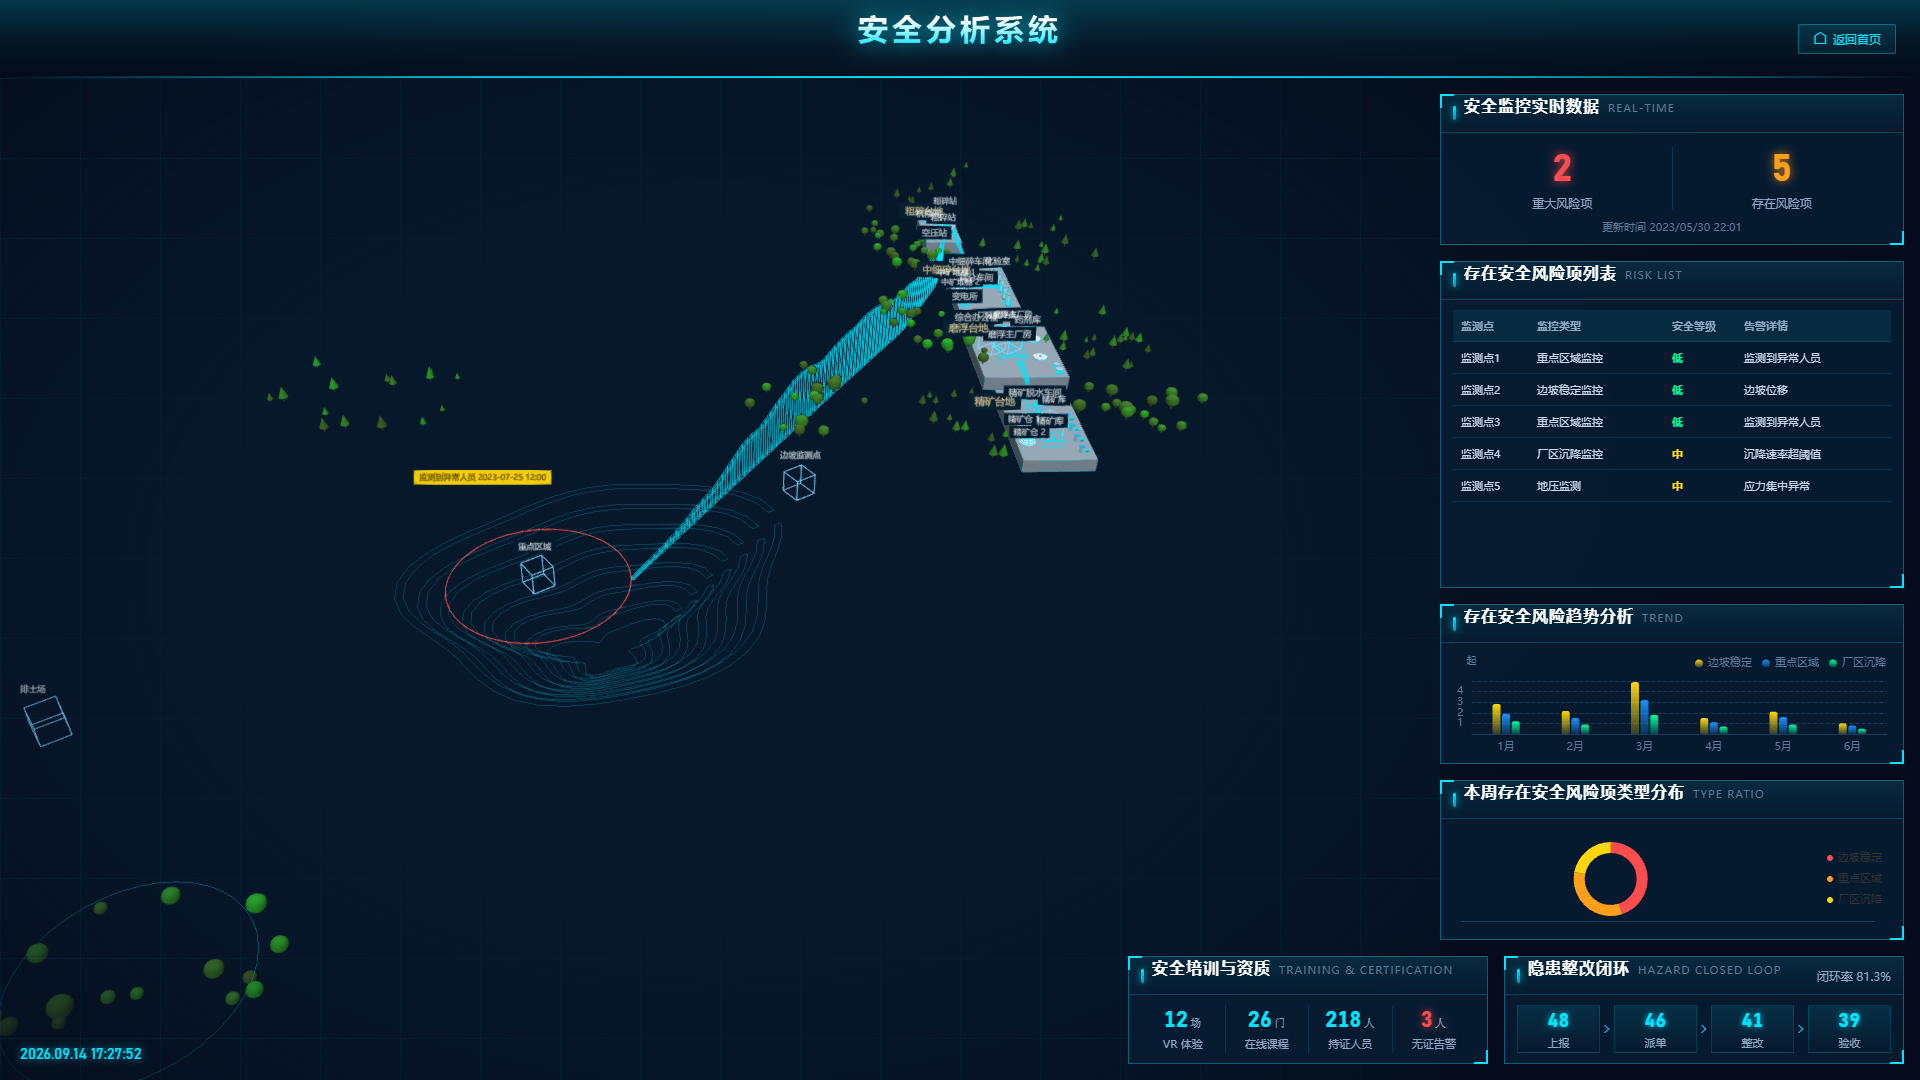
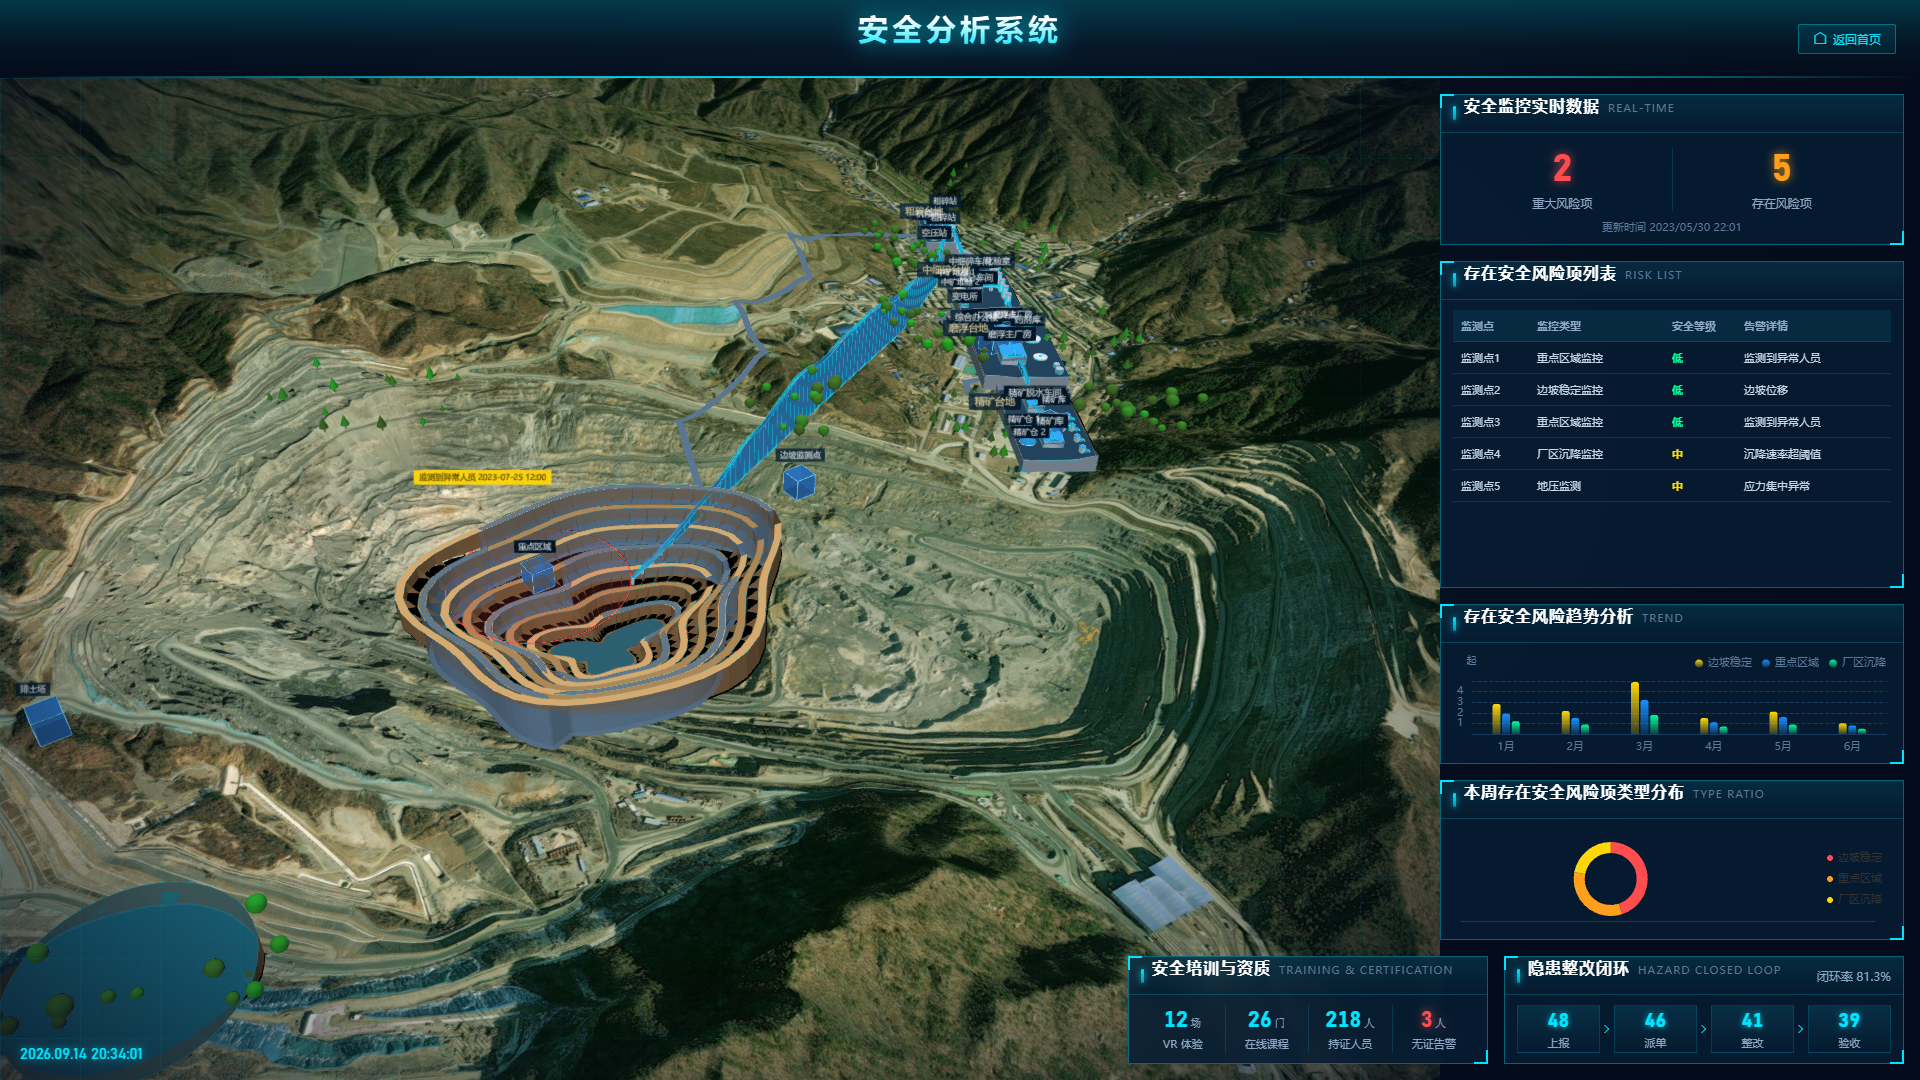
修「拉近矿厂模型后看不到底图」：一个 0 被 Cesium 当了除数（§13 第 28、29 条）
用户报「放大拉近到矿厂模型后，包括数字孪生，都看不到背景 cesium」。
根因在 localTerrain.ts 的 getLevelMaximumGeometricError：它对
level >= maxCachedLevel（14 级）返回**字面量 0**。Cesium 拿同一个数问两件事：

- 问细分：屏幕空间误差 = 0，恒小于阈值 → 渲染这一级、不下钻。「给 0」是对的。
- 问影像层级：ImageryLayer.js 把它**当除数**算
  level = round(log2(levelZeroTexel / 误差)) | 0。除以 0 得 Infinity，
  而位运算 | 0 会把 Infinity 归成 **0**（不报错、也不是大数）——
  影像层级塌到 0 级，0 级不在离线缓存里（12~17 级），requestImage 只能给
  透明占位图，整片球面于是露出 globe.baseColor(#07182b)。

实测：地形 13 级误差 4.777 → 影像 15 级（有缓存）；14 级误差 0 → 影像 0 级
（无缓存）。修前默认机位就没在渲染影像（默认机位也停在 14 级），
累计真实瓦片请求 140 张且不再增长，头号颜色 rgb(7,24,43) 占 30~35%；
修后请求 460 张，该颜色从前五名彻底消失（头色只剩 0.65%），
地面高程读数仍 1377m、帧号连续推进。

修法：把「再细分也不会有更多细节」表达成极小的正数（Number.EPSILON）
而不是字面量 0 —— 屏幕空间误差事实上仍是 0，而算出的影像层级是极大值，
被 Cesium 夹到 17 级（有缓存）。

同时修展示截图工具（§13 第 29 条）：make-screenshots.mjs 在 .panel-box
出现的瞬间采 has3d，而那是静态骨架（0.5s 就出来），window.__cesiumViewer
要到 1.6s 才挂上，于是 has3d 恒为 false、三维页只等 6 秒，**瓦片没到就截图**，
十张图的三维区全是空地球（数字孪生那张 63.9% 是 baseColor）。
满屏深蓝本来就是这个大屏的底色，逐张看都「挺正常」；空地球+静态面板又是
确定性的（两次重跑只差 2 字节），这种「稳定」反而像个好信号。
现在先等 viewer 再判定，截完再按像素量三维区 baseColor 占比，超 25% 即报错。

同一条链上两处按帧率校准的等待改成等条件（不是放宽，根因是窗口照着一个
三维区没什么可渲染的时代定的）：check-twin-layers 的噪声底改为量到落定
（shootUntilStable），check-emergency 的「定位」改为等相机真的移动、
下发演练窗口 9000ms→30000ms。

重新生成 6 张截图（三维区从空地球变成真影像，文件 400KB→2.0~3.0MB，
逐张自检 baseColor 占 0.0%）；monitoring 与 decision 三张无三维，字节未变。

diff --git a/src/scene/localTerrain.ts b/src/scene/localTerrain.ts
@@ -50,6 +50,20 @@ const TERRAIN_BASE_URL = 'map-tiles/heights'
  */
 const DEFAULT_FALLBACK_ELEVATION = 1200
 
+/**
+ * 「这一级已经是我们的最深处、再细分也不会更细」的几何误差（米）。
+ *
+ * 语义上它就是 0，但**不能写真 0**：Cesium 会拿这个值当除数去反推影像层级
+ * （`level = round(log2(levelZeroTexel / 误差)) | 0`），除以 0 得 `Infinity`，
+ * 而位运算 `| 0` 把 `Infinity` 归成 **0** —— 影像层级塌到 0 级，
+ * 0 级没缓存 → 透明占位图 → 拉近后底图整片消失。
+ * 详见 `getLevelMaximumGeometricError` 的说明。
+ *
+ * 取 `Number.EPSILON`（最小可分辨正数）：屏幕空间误差事实上是 0（不再细分），
+ * 而算出的影像层级是个极大值，被 Cesium 夹到 `maximumLevel`（17 级，有缓存）。
+ */
+const NO_FURTHER_DETAIL = Number.EPSILON
+
 /** Float32 高程数组的结构描述：每元素 1 个高度值，不做额外缩放 */
 const FLOAT_STRUCTURE = {
   heightScale: 1,
@@ -213,11 +227,22 @@ export class OfflineTerrariumTerrainProvider {
    * 异常直接触发 `scene.renderError` → **Cesium 停止渲染，三维区永久黑屏**。
    * 只在「定位」时复现：相机贴到地面才需要那么深的细分。
    *
-   * 正确做法是到最深处直接给 0：屏幕空间误差恒为 0，细分天然停在
-   * 我们真正有数据的那一级，也不会再去请求更深层的瓦片。
+   * 于是改成到最深处返回 0：屏幕空间误差恒为 0，细分天然停在我们真正有数据的
+   * 那一级。**但 0 又引出第二个坑**——Cesium 除了拿它算屏幕空间误差，
+   * 还拿它**当除数**去反推影像层级（`ImageryLayer.js` 800 行取这个误差，
+   * 1682 行 `level = round(log2(levelZeroTexel / 误差)) | 0`）。
+   * 除数为 0 时是 `Infinity | 0`，而**位运算会把 Infinity 归成 0**（不报错、
+   * 也不是大数），于是渲染中的地球瓦片去要 **0 级影像**；0 级不在离线缓存里
+   * （缓存 12~17 级），`requestImage` 给回透明占位图 → 拉近之后底图整片消失，
+   * 只剩 `globe.baseColor` 的深空色。实测相机离地 300m 时地球只渲染 1 张
+   * 14 级瓦片，影像层级被算成 0。
+   *
+   * 所以「不再有更多细节」要用一个**极小的正数**表达，不能用字面量 0：
+   * 屏幕空间误差≈0（不细分，效果同 0），而算出的影像层级是个极大值，
+   * 被 Cesium 的 `if (imageryLevel > maximumLevel)` 一夹正好落到 17 级（有缓存）。
    */
   getLevelMaximumGeometricError(level: number): number {
-    if (level >= this.maxCachedLevel) return 0
+    if (level >= this.maxCachedLevel) return NO_FURTHER_DETAIL
     // 用 2 ** level 而不是 1 << level：JS 的位运算是 32 位，
     // `1 << 31` 是负数，这里必须撑得住任意深的层级
     return this.levelZeroError / 2 ** level

diff --git a/README.md b/README.md
@@ -1681,6 +1681,127 @@ npm run build
     验证不是看截图「感觉对了」，而是**取像素**：白 `255,255,255` → `6,26,48` / `5,25,46`
     的面板蓝，再用 `vision.js` 在裁剪放大的截图上目视复核。
 
+28. **「拉近到矿厂模型就看不到底图」—— 一个 `0` 引出的影像塌陷（2026-09-14 修）** ——
+    用户报「放大拉近到矿厂模型后，包括数字孪生，都看不到背景 cesium」。
+    根因在 `localTerrain.ts` 的 `getLevelMaximumGeometricError`：
+    它对 `level >= maxCachedLevel`（14 级，地形最深缓存）返回**字面量 `0`**。
+
+    这个 `0` 的来历见该函数注释（防四叉树无限下钻，是真踩过的坑），
+    但 Cesium 会拿**同一个数**问两件事，于是 `0` 在第二件事上塌了：
+
+    - **问细分**：屏幕空间误差 = 误差 × 屏高 / (距离 × 视锥系数) = 0，
+      恒小于 `maximumScreenSpaceError` → 渲染这一级、不再往下钻。「给 0」本身是对的。
+    - **问影像层级**：`ImageryLayer.js` 800 行把这个误差取出来**当除数**，
+      1682 行算 `level = round(log2(levelZeroTexel / 误差)) | 0`。
+      除以 0 得 `Infinity`，而**位运算 `| 0` 会把 `Infinity` 归成 `0`**
+      —— 不报错、也不是个大数。影像层级于是塌到 **0 级**；
+      0 级不在离线缓存里（缓存是 12~17 级），`requestImage` 只能给回透明占位图
+      （见第 26 条那条「透明占位图」的注释），整片球面就露出了
+      `globe.baseColor`（`#07182b` 深空色）。
+
+    实测证据（软件渲染，相机停在选矿厂上空）：
+
+    | 地形瓦片层 | 该层几何误差 | 推出的影像层级 | 结果 |
+    | --- | --- | --- | --- |
+    | 13 | 4.777 | 15 级 | 有缓存 |
+    | **14** | **0** | **0 级** | **无缓存 → 透明占位** |
+
+    - 相机离地 300m 时，地球只渲染 **1 张 14 级瓦片**（`deepestTile=14`）——
+      所以**整屏**都在拿 0 级影像。
+    - 修前，远景 / 近景 / 更近三档的**头号颜色都是 `rgb(7,24,43)`**，
+      分别占 **30.51% / 22.46% / 34.61%** —— 正是 `globe.baseColor`。
+      也就是说底图不是「拉近才没的」，**默认机位就没渲染出来**（默认机位同样停在 14 级）。
+    - 累计**真实**瓦片请求：修前 140 张且不再增长；修后 460 张。
+      修前三维区压根没在请求影像，请求全被占位图挡回了。
+
+    修法：把「再细分也不会有更多细节」表达成一个**极小的正数**
+    （`NO_FURTHER_DETAIL = Number.EPSILON`）而不是字面量 `0`。两件事同时成立：
+    屏幕空间误差事实上仍是 0（不细分，行为与 0 相同），
+    而算出的影像层级是个极大值，被 Cesium 的 `if (imageryLevel > maximumLevel)`
+    一夹正好落到 **17 级**（有缓存）。
+
+    修后同机位复测：`rgb(7,24,43)` **从前五名里彻底消失**，
+    头号颜色只剩 0.65% —— 影像纹理的颜色本来是散的，不会有一种颜色占三成；
+    这正是「一层真影像」与「一片纯色底」在像素上的区别。
+    相机各自的地面高程读数仍是 1377m（没有掉到兜底平面的 1200m），
+    帧号 52→77→117 连续推进（渲染循环没停）。
+
+    ⚠ **本条同时更正了第 26 条的适用范围。** 第 26 条那次修复（删掉会自毁图层的兜底）
+    本身没错，但它保留下来的判据形如「跨过 12 秒窗口后 `globe.show=true`、`图层=1`、
+    `累计请求 140 张`」—— 这些**当时全绿，而画面里一张影像都没渲染**。
+    结构性判据只证明了「图层还在、请求发得出」，**证明不了「像素出来了」**。
+    第 26 条的文字保留不改（它记录的是当时那次修复），但它的绿要按本条重新理解：
+    **图层活着 ≠ 影像可见**。要判断后者，只能量像素。
+
+    顺带修了 `check-twin-layers.mjs` 的**噪声底**判据（它因此第一次真红了）：
+    该判据「全隐藏后隔 3 秒连截两张必须逐像素一致」的 3 秒是**猜的**，
+    而它此前一直绿，是因为影像从来没真的加载过、三维区根本不抖。
+    本条修好后三维区每帧都在收瓦片，固定 3 秒必然不同。
+    按该文件自己记过的教训①「窗口不能猜，只能量」，改成用现成的
+    `shootUntilStable()` **量到落定为止**，量不到就如实报红（不无限重试、不放宽到永远绿）。
+
+    同一条链上还波及 `check-emergency.mjs` 的两处**按帧率校准的等待**，一并改成等条件。
+    这不是「让它变绿」，两处的根因都是「窗口是照着一个三维区没什么可渲染的时代定的」：
+
+    - **「『定位』按钮把相机飞到作业人员点位」** 原来是点完之后**等死 6 秒**再比相机经度。
+      探针实测：软件渲染下该页现在只有约 **1 帧/秒**（`scene.frameState.frameNumber` 每秒 +1），
+      一次 `flyTo` 要 4~6 秒才落位 —— 6 秒正好压在边界上，
+      同一份代码连跑两次能一次红 2 项、一次红 4 项。改成等「相机真的移动了」（45 秒封顶）。
+      判据要问的是「点它会飞过去」，不是「它在 6 秒内飞过去」。
+    - **下发演练的观察窗口** 9000ms → 30000ms。这套演练是**按定时器推进**的，
+      主线程被一帧占住 1 秒时，300ms 的定时器就退化成每帧一次，
+      24 步从 7.2s 拉长到 20s 以上，把原本只剩 22% 的余量（实测 7063ms）吃光。
+      改的是「给它多少时间做到」，不是「要不要做到」——
+      「自己走到 done」「三条通道都送满」「停表后不再变」三条判据一条没动。
+
+29. **十张 README 截图全是「空地球」—— 判据取样太早（2026-09-14 修）** ——
+    接第 28 条查「底图看不见」时顺手复核展示截图，发现
+    `overview / digital-twin / slope-monitor / safety / video-analysis` 这几张里，
+    三维区**大半是 `globe.baseColor`（`#07182b`）**：数字孪生那张有 **63.9%**，
+    首页 **35.3%**。也就是说第 28 条的影像塌陷在展示图里也全须全尾地拍下来了。
+
+    但这批图**不是**第 28 条造成的 —— 修完影像后重跑，数字孪生那张仍然 63.9%。
+    根因在**产出工具** `make-screenshots.mjs`：它在 `.panel-box` 出现的瞬间
+    问「这一页有没有三维」（`!!window.__cesiumViewer`）：
+
+    | 事件 | 时刻（实测） |
+    | --- | --- |
+    | `.panel-box` 出现（**静态骨架**，与三维无关） | 导航后 **0.5s** |
+    | `window.__cesiumViewer` 挂上 | 导航后 **1.6s** |
+
+    取样点落在两者之间 → `has3d` **恒为 `false`** → 三维页的沉降时间从 25 秒
+    掉进 `6000` 那个分支 → **瓦片还没到就截图**，拍下一个还没贴图的球。
+
+    这个失效特别能骗人：满屏深蓝本来就是这个大屏的底色，
+    十张图逐张看都「挺正常」；而且空地球 + 静态面板是**确定性**的 ——
+    两次重跑数字孪生那张只差 **2 字节**（421497 / 421499），
+    这种「稳定」反而像个好信号。
+
+    修法两头堵：
+
+    - `settle3d()`：**先等 viewer 出现，再判定有没有三维**（30 秒封顶），
+      再等 `tilesLoaded`、最后压 25 秒固定沉降。页签切换等于换机位/换图层，
+      走同一套等待。
+    - `baseColorShare()`：截完**按像素**量三维区里 `baseColor` 占多少
+      （矩形与颜色都在截图时现读，不写死），超 25% 就报错、退出码非零
+      —— 让「截出来一张空地球」不可能悄悄进仓库。
+
+    修后逐张自检（脚本自己打印）：**五个三维页全是 `baseColor 占 0.0%`**，
+    头号颜色从纯色变成影像/台阶的散色（数字孪生头色 `rgb(209,167,111)`，矿台阶的土黄）。
+    文件体积也直接反映出来：三维那几张从 ~400KB 涨到 **2.0~3.0MB**
+    （真影像的熵远高于一片纯色）。独立复核：`vision.js` 对修后的
+    `digital-twin.png` 判「能看到卫星影像和地形、能看到矿山设备和台阶模型」。
+
+    📌 与第 28 条是**同一个教训的两面**：那次是「图层活着 ≠ 影像可见」，
+    这次是「**截出来了 ≠ 拍到的是那个东西**」。判据不但要量对东西，
+    还要在**对的时刻**取样 —— 骨架出现不等于组件就绪。
+
+    📌 排查中被一个**环境坑**带偏过：Git Bash 会把以 `/` 开头的参数
+    改写成 Windows 路径，`node _probe-x.mjs http://localhost:4173 /digital-twin`
+    实际请求的是 `.../#C:/Program Files/Git/digital-twin`，落进 SPA 的
+    catch-all 路由被重定向回 `/` —— 一时间像是「数字孪生路由自己会跳首页」。
+    传这类参数要加 `MSYS_NO_PATHCONV=1`。
+
 ---
 
 ## 十四、以《项目文档.docx》为唯一基准
